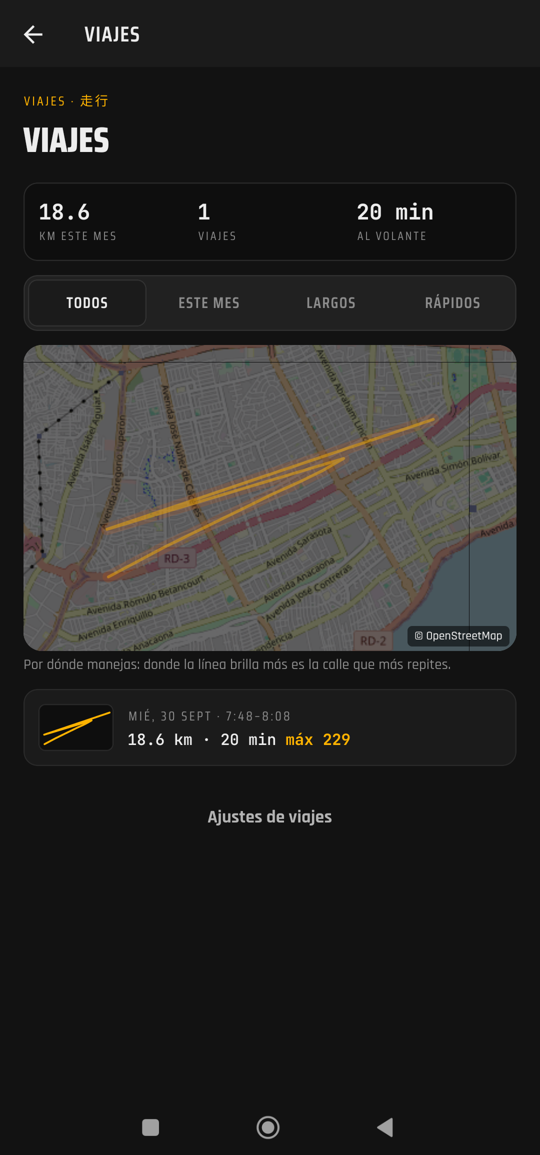
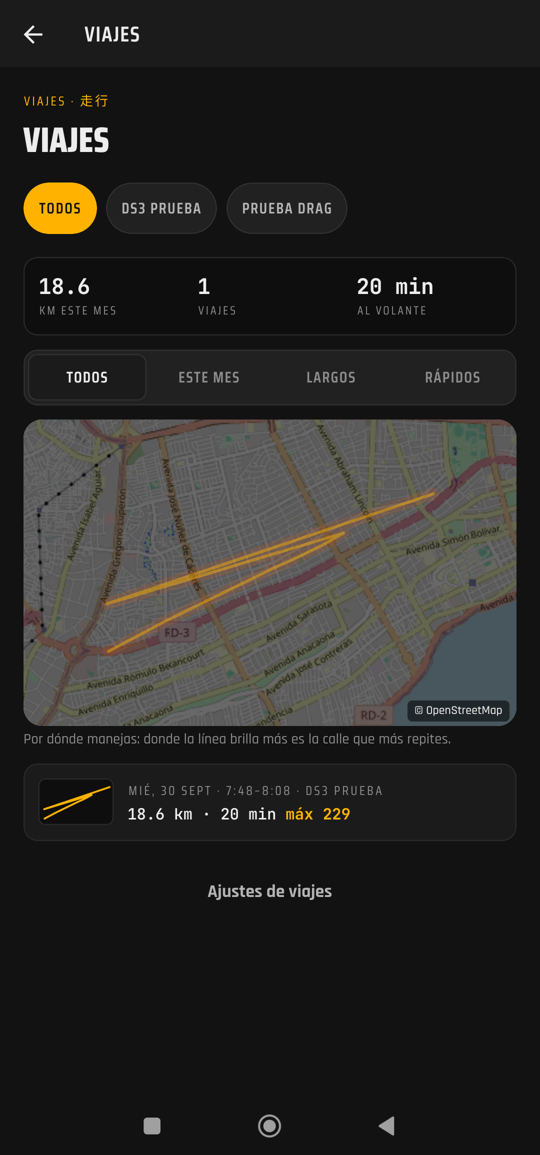
release: 2.2.2
Claude-Session: https://claude.ai/code/session_017CacS5tHvB444oCuq9j9uQ

diff --git a/lib/changelog.generated.ts b/lib/changelog.generated.ts
@@ -4,6 +4,25 @@ import type { ChangelogEntry } from './changelog/parse';
 
 export const CHANGELOG: ChangelogEntry[] = [
   {
+    "version": "2.2.2",
+    "name": null,
+    "date": "2026-09-30",
+    "unreleased": false,
+    "intro": [],
+    "sections": [
+      {
+        "title": null,
+        "intro": [],
+        "items": [
+          "**Mapa en tus viajes**: cada viaje se ve sobre las calles de OpenStreetMap, con la ruta coloreada por velocidad. Se puede apagar en Viajes → Ajustes.",
+          "**Por dónde manejas**: en Viajes, un mapa con todos tus viajes juntos; la calle que más repites brilla más.",
+          "**Ordenar el garaje arrastrando**: en Garaje → Ordenar, mantén un carro presionado y arrástralo. Las flechas siguen ahí.",
+          "**Xiaomi**: la guía de Automático ahora te dice si el \"Inicio automático\" de Car Guy está activado, y abre esa pantalla directo."
+        ]
+      }
+    ]
+  },
+  {
     "version": "2.2.1",
     "name": null,
     "date": "2026-09-30",

diff --git a/docs/NEXT.md b/docs/NEXT.md
@@ -19,12 +19,13 @@ costado", /instalar + /api/apk. Package: [`imp-29092026/`](imp-29092026/README.m
   out-and-back excursions from saved tracks (the mock-run artifact); the drive tells whether more is needed.
 - Admin inbox confirmed by Xaviel signing in with the admin email (must be a Car Guy account); a test
   comment from the Redmi is waiting there.
-- Decisions, not code: a real map under the route and a speed heatmap need a map provider (Google Maps
-  key with billing, or MapLibre + an OSM-compatible tile host); MIUI autostart detection needs a native
-  module (XomaDev/MIUI-autostart); drag-to-reorder on native (arrows today, verify 60 fps on the Redmi).
+- The map uses OpenStreetMap's standard tiles (Xaviel's choice, 2026-09-30) under their usage policy. If
+  Car Guy ever has many users, move to a tile host with an SLA (MapTiler, Stadia, or self-hosted).
 - Play Store: not now (Xaviel's call).
 
-Done in 2.2.1 (2026-09-30): excursion filter for saved tracks; public page status + "lo que me ha costado"
+Done in 2.2.2 (2026-09-30): OpenStreetMap under each trip + the "por dónde manejas" heatmap; drag to
+reorder in Ordenar (phone); MIUI autostart state via a local Expo module (app-op 10008 — AppOpsUtils is
+absent on MIUI 14). Done in 2.2.1 (2026-09-30): excursion filter for saved tracks; public page status + "lo que me ha costado"
 (sql/022, the phone publishes its figure); inventory `used_in_mod_id` (sql/023). The economy whisker and
 the tank-capacity hint were already in 2.2.0.
 
@@ -35,7 +36,7 @@ the tank-capacity hint were already in 2.2.0.
 | Web app | <https://car-guy.vercel.app> — live, installable PWA, Vercel project `car-guy` |
 | Old web app | <https://tu-combustible-rd.vercel.app> — still up, still git-connected to this repo, so it also serves Car Guy. Delete the project when you are ready |
 | Repo | <https://github.com/XavielT/car-guy> (renamed from `tu-combustible-rd`; GitHub keeps redirects) |
-| Android | **2.2.1 released** (2026-09-30) — GitHub release `v2.2.1` with `car-guy.apk` (stable name, always the latest: `…/releases/latest/download/car-guy.apk`) and `car-guy-v2.2.1.apk`; the web page car-guy.vercel.app/instalar offers it on Android (`/api/apk`); EAS project `@xavieldev/car-guy`, EAS-managed keystore. Release with `bash tools/release-apk.sh --publish` |
+| Android | **2.2.2 released** (2026-09-30) — GitHub release `v2.2.2` with `car-guy.apk` (stable name, always the latest: `…/releases/latest/download/car-guy.apk`) and `car-guy-v2.2.2.apk`; the web page car-guy.vercel.app/instalar offers it on Android (`/api/apk`); EAS project `@xavieldev/car-guy`, EAS-managed keystore. Release with `bash tools/release-apk.sh --publish` |
 | Cloud in the APK | Until 2.1.2 the APKs had **no** Supabase values (EAS packs by .gitignore, so `.env.local` never reached a build) — Cuenta said "no configurada". Since 2.1.3: `eas.json` `build.base.env` carries the two public values (URL + anon key — public by design, RLS protects the data; no service-role key anywhere), the EAS environments `preview`/`production` carry them too (`eas env:list production`), `app.config.js` refuses an EAS release build without them, and `tools/check-bundle-env.mjs` refuses an APK whose bundle lacks the project URL (the release script runs it) |
 | Distribution | **Xaviel's own channels only:** the portfolio card (links `releases/latest`, so every release reaches it with no change there), the web app and the direct APK link. **No Play Store for now** — Xaviel's call (2026-09-29): the app is not ready for it yet; it is a future step |
 | Cloud | Supabase `x-core`, schema `carguy`: v1 tables (19, incl. cloud-only `profiles`) + **schema v2** (`sql/009`–`010`, 23 more, applied 2026-09-28), private `carguy-media` bucket. **A 2.0.0 install signed in to sync cannot pull `vehicle`/`media`/`service_record` any more** (new columns) — ship 2.1 before anyone syncs on 2.0.0 |

diff --git a/CHANGELOG.md b/CHANGELOG.md
@@ -1,5 +1,15 @@
 # Changelog
 
+## 2.2.2 (2026-09-30)
+
+- **Mapa en tus viajes**: cada viaje se ve sobre las calles de OpenStreetMap, con la ruta coloreada por
+  velocidad. Se puede apagar en Viajes → Ajustes.
+- **Por dónde manejas**: en Viajes, un mapa con todos tus viajes juntos; la calle que más repites brilla más.
+- **Ordenar el garaje arrastrando**: en Garaje → Ordenar, mantén un carro presionado y arrástralo. Las
+  flechas siguen ahí.
+- **Xiaomi**: la guía de Automático ahora te dice si el "Inicio automático" de Car Guy está activado, y
+  abre esa pantalla directo.
+
 ## 2.2.1 (2026-09-30)
 
 - **Viajes más exactos**: si el GPS salta a otro sitio y vuelve (pasa cuando el teléfono mezcla GPS y Wi‑Fi),
